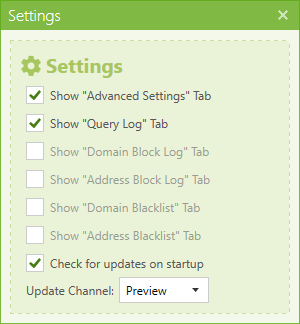
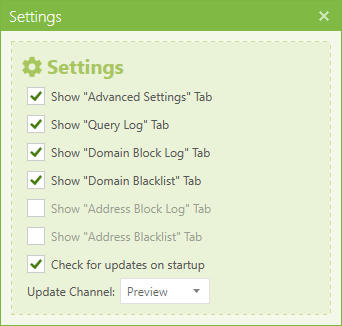
update screenshots

diff --git a/README.md b/README.md
@@ -64,6 +64,10 @@ If you can add or correct a language, feel free to do so:
 
 ![advanced](https://raw.githubusercontent.com/bitbeans/SimpleDnsCrypt/master/img/preview/advancedsettings.png)
 
+![blacklist](https://raw.githubusercontent.com/bitbeans/SimpleDnsCrypt/master/img/preview/blacklist.png)
+
+![blocklog](https://raw.githubusercontent.com/bitbeans/SimpleDnsCrypt/master/img/preview/blocklog.png)
+
 ![settings](https://raw.githubusercontent.com/bitbeans/SimpleDnsCrypt/master/img/preview/settings.png)
 
 ## Built With
